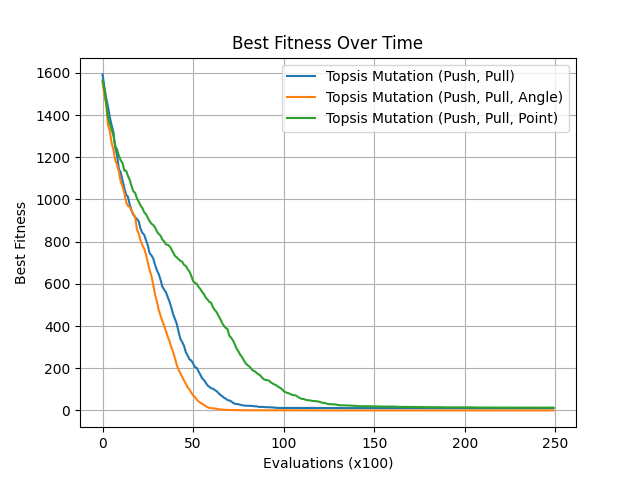
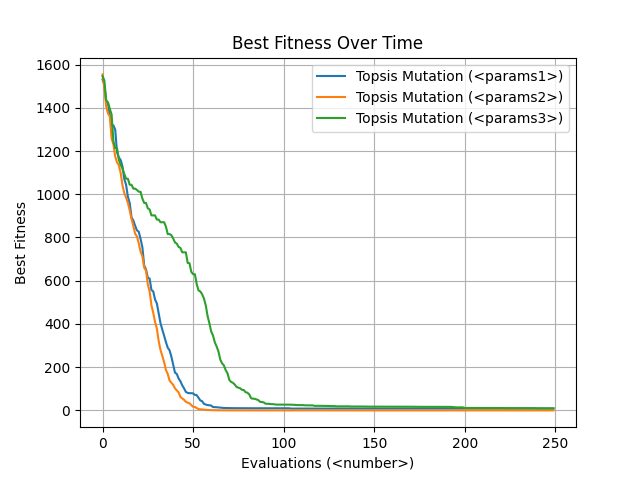
Ackley + Schwefel + code refactor

diff --git a/topsis_mutation/main.py b/topsis_mutation/main.py
@@ -1,10 +1,16 @@
+# Utils
 import numpy as np
 import matplotlib.pyplot as plt
+# JMetalPy
 from jmetal.algorithm.singleobjective import GeneticAlgorithm
 from jmetal.operator import SBXCrossover, PolynomialMutation, BinaryTournamentSelection
-from jmetal.problem.singleobjective.unconstrained import Rastrigin
 from jmetal.util.termination_criterion import StoppingByEvaluations
-from .topsis_mutation import TopsisMutation
+# Mutations
+from topsis_mutation.mutations.topsis_mutation import TopsisMutation
+# Problems
+from jmetal.problem.singleobjective.unconstrained import Rastrigin
+from topsis_mutation.problems.ackley import Ackley
+from topsis_mutation.problems.schwefel import Schwefel
 import json
 
 class CustomGeneticAlgorithm(GeneticAlgorithm):
@@ -70,18 +76,27 @@ if __name__ == "__main__":
     number_of_variables = config["number_of_variables"]
     ga_params = config["genetic_algorithm_params"]
     poly_mutation_params = config["polynomial_mutation_params"]
-    topsis_mutation_params = config["topsis_mutation_params"]
-    exp_1_params = config["exp1_params"]
-    exp_2_params = config["exp2_params"]
+    topsis1_params = config["topsis1_params"]
+    topsis2_params = config["topsis2_params"]
+    topsis3_params = config["topsis3_params"]
 
-    # Initialize the Rastrigin problem
-    problem = Rastrigin(number_of_variables=number_of_variables)
+    # Initialize the problem
+    problemType = config["problem"]
+    match problemType:
+        case "rastrigin":
+            problem = Rastrigin(number_of_variables=number_of_variables)
+        case "ackley":
+            problem = Ackley(number_of_variables=number_of_variables)
+        case "schwefel":
+            problem = Schwefel(number_of_variables=number_of_variables)
+        case _:
+            problem = Rastrigin(number_of_variables=number_of_variables)
 
     # Run the experiments
     poly_history_sum = np.zeros(int(ga_params["max_evaluations"]/100))
-    top_percentage_history_sum = np.zeros(int(ga_params["max_evaluations"]/100))
-    exp_1_history_sum = np.zeros(int(ga_params["max_evaluations"]/100))
-    exp_2_history_sum = np.zeros(int(ga_params["max_evaluations"]/100))
+    topsis1_history_sum = np.zeros(int(ga_params["max_evaluations"]/100))
+    topsis2_history_sum = np.zeros(int(ga_params["max_evaluations"]/100))
+    topsis3_history_sum = np.zeros(int(ga_params["max_evaluations"]/100))
     
     for _ in range(num_tests):
         # PolynomialMutation
@@ -100,110 +115,128 @@ if __name__ == "__main__":
         poly_history = run_experiment(poly_algorithm, ga_params["max_evaluations"])
         poly_history_sum += poly_history
         
-        # TopsisMutation
-        top_percentage_algorithm = CustomGeneticAlgorithm(
+        # TopsisMutation 1
+        topsis1_algorithm = CustomGeneticAlgorithm(
             problem=problem,
             population_size=ga_params["population_size"],
             offspring_population_size=ga_params["offspring_population_size"],
             mutation=TopsisMutation(
-                probability=topsis_mutation_params["probability"],
-                selected_percentage=topsis_mutation_params["top_percentage"],
-                push_strength=topsis_mutation_params["push_strength"],
-                best=topsis_mutation_params["toBest"],
-                worst=topsis_mutation_params["fromWorst"],
-                randomized_angle=topsis_mutation_params["randomizedAngle"],
-                randomized_point=topsis_mutation_params["randomizedPoint"],
+                probability=topsis1_params["probability"],
+                selected_percentage=topsis1_params["top_percentage"],
+                push_strength=topsis1_params["push_strength"],
+                best=topsis1_params["toBest"],
+                worst=topsis1_params["fromWorst"],
+                randomized_angle=topsis1_params["randomizedAngle"],
+                randomized_point=topsis1_params["randomizedPoint"],
                 population=[]
             ),
             crossover=SBXCrossover(probability=0.9, distribution_index=20),
             selection=BinaryTournamentSelection(),
             termination_criterion=StoppingByEvaluations(max_evaluations=ga_params["max_evaluations"])
         )
-        top_percentage_history = run_experiment(top_percentage_algorithm, ga_params["max_evaluations"])
+        topsis1_history = run_experiment(topsis1_algorithm, ga_params["max_evaluations"])
         
         # Set the population for the mutation object
-        top_percentage_algorithm.mutation_operator.set_mutation_population(top_percentage_algorithm.solutions)
+        topsis1_algorithm.mutation_operator.set_mutation_population(topsis1_algorithm.solutions)
+        
+        topsis1_history_sum += topsis1_history
 
-        top_percentage_history_sum += top_percentage_history
 
-
-        # Experiment 1
-        exp_1_algorithm = CustomGeneticAlgorithm(
+        # TopsisMutation 2
+        topsis2_algorithm = CustomGeneticAlgorithm(
             problem=problem,
             population_size=ga_params["population_size"],
             offspring_population_size=ga_params["offspring_population_size"],
             mutation=TopsisMutation(
-                probability=exp_1_params["probability"],
-                selected_percentage=exp_1_params["top_percentage"],
-                push_strength=exp_1_params["push_strength"],
-                best=exp_1_params["toBest"],
-                worst=exp_1_params["fromWorst"],
-                randomized_angle=exp_1_params["randomizedAngle"],
-                randomized_point=exp_1_params["randomizedPoint"],
+                probability=topsis2_params["probability"],
+                selected_percentage=topsis2_params["top_percentage"],
+                push_strength=topsis2_params["push_strength"],
+                best=topsis2_params["toBest"],
+                worst=topsis2_params["fromWorst"],
+                randomized_angle=topsis2_params["randomizedAngle"],
+                randomized_point=topsis2_params["randomizedPoint"],
                 population=[]
             ),
             crossover=SBXCrossover(probability=0.9, distribution_index=20),
             selection=BinaryTournamentSelection(),
             termination_criterion=StoppingByEvaluations(max_evaluations=ga_params["max_evaluations"])
         )
-        exp_1_history = run_experiment(exp_1_algorithm, ga_params["max_evaluations"])
+        topsis2_history = run_experiment(topsis2_algorithm, ga_params["max_evaluations"])
+        
         # Set the population for the mutation object
-        exp_1_algorithm.mutation_operator.set_mutation_population(exp_1_algorithm.solutions)
-        exp_1_history_sum += exp_1_history
+        topsis2_algorithm.mutation_operator.set_mutation_population(topsis2_algorithm.solutions)
+        
+        topsis2_history_sum += topsis2_history
 
 
-        # Experiment 2
-        exp_2_algorithm = CustomGeneticAlgorithm(
+        # TopsisMutation 3
+        topsis3_algorithm = CustomGeneticAlgorithm(
             problem=problem,
             population_size=ga_params["population_size"],
             offspring_population_size=ga_params["offspring_population_size"],
             mutation=TopsisMutation(
-                probability=exp_2_params["probability"],
-                selected_percentage=exp_2_params["top_percentage"],
-                push_strength=exp_2_params["push_strength"],
-                best=exp_2_params["toBest"],
-                worst=exp_2_params["fromWorst"],
-                randomized_angle=exp_2_params["randomizedAngle"],
-                randomized_point=exp_2_params["randomizedPoint"],
+                probability=topsis3_params["probability"],
+                selected_percentage=topsis3_params["top_percentage"],
+                push_strength=topsis3_params["push_strength"],
+                best=topsis3_params["toBest"],
+                worst=topsis3_params["fromWorst"],
+                randomized_angle=topsis3_params["randomizedAngle"],
+                randomized_point=topsis3_params["randomizedPoint"],
                 population=[]
             ),
             crossover=SBXCrossover(probability=0.9, distribution_index=20),
             selection=BinaryTournamentSelection(),
             termination_criterion=StoppingByEvaluations(max_evaluations=ga_params["max_evaluations"])
         )
-        exp_2_history = run_experiment(exp_2_algorithm, ga_params["max_evaluations"])
+        topsis3_history = run_experiment(topsis3_algorithm, ga_params["max_evaluations"])
+        
         # Set the population for the mutation object
-        exp_2_algorithm.mutation_operator.set_mutation_population(exp_2_algorithm.solutions)
-        exp_2_history_sum += exp_2_history
+        topsis3_algorithm.mutation_operator.set_mutation_population(topsis3_algorithm.solutions)
+        
+        topsis3_history_sum += topsis3_history
 
 
     # Calculate average histories
     poly_history_avg = poly_history_sum / num_tests
-    top_percentage_history_avg = top_percentage_history_sum / num_tests
-    exp_1_history_avg = exp_1_history_sum / num_tests
-    exp_2_history_avg = exp_2_history_sum / num_tests
+    topsis1_history_avg = topsis1_history_sum / num_tests
+    topsis2_history_avg = topsis2_history_sum / num_tests
+    topsis3_history_avg = topsis3_history_sum / num_tests
 
-    # Exp 1 to TOPSIS comparison
-    plt.plot(top_percentage_history_avg, label="Topsis Mutation (Push, Pull)")
-    plt.plot(exp_1_history_avg, label="Topsis Mutation (Push, Pull, Angle)")
-    plt.plot(exp_2_history_avg, label="Topsis Mutation (Push, Pull, Point)")
+    # All experiments comparison
+    plt.plot(poly_history_avg, label="Polynomial Mutation")
+    plt.plot(topsis1_history_avg, label="Topsis Mutation (<params1>)")
+    plt.plot(topsis2_history_avg, label="Topsis Mutation (<params2>)")
+    plt.plot(topsis3_history_avg, label="Topsis Mutation (<params3>)")
     plt.title("Best Fitness Over Time")
-    plt.xlabel("Evaluations (x100)")
+    plt.xlabel("Evaluations (<number>)")
     plt.ylabel("Best Fitness")
     plt.legend()
     plt.grid()
-    plt.savefig("plots/topsis_mutation/experiment1_combined_plot.png")
+    plt.savefig("plots/topsis_mutation/all_combined_plot.png")
     plt.show()
 
+    # Three experiments comparison
+    plt.plot(topsis1_history_avg, label="Topsis Mutation (<params1>)")
+    plt.plot(topsis2_history_avg, label="Topsis Mutation (<params2>)")
+    plt.plot(topsis3_history_avg, label="Topsis Mutation (<params3>)")
+    plt.title("Best Fitness Over Time")
+    plt.xlabel("Evaluations (<number>)")
+    plt.ylabel("Best Fitness")
+    plt.legend()
+    plt.grid()
+    plt.savefig("plots/topsis_mutation/three_combined_plot.png")
+    # plt.show()
 
+
+    # Two experiments comparison
     plt.plot(poly_history_avg, label="Polynomial Mutation")
-    plt.plot(top_percentage_history_avg, label="Topsis Mutation")
+    plt.plot(topsis1_history_avg, label="Topsis Mutation")
     plt.title("Best Fitness Over Time")
     plt.xlabel("Evaluations (x100)")
     plt.ylabel("Best Fitness")
     plt.legend()
     plt.grid()
-    plt.savefig("plots/topsis_mutation/combined_plot.png")
+    plt.savefig("plots/topsis_mutation/two_combined_plot.png")
     # plt.show()
 
     plt.plot(poly_history_avg)
@@ -214,13 +247,10 @@ if __name__ == "__main__":
     plt.savefig("plots/topsis_mutation/polynomial_mutation_plot.png")
     # plt.show()
 
-    plt.plot(top_percentage_history_avg)
+    plt.plot(topsis1_history_avg)
     plt.title("Topsis Mutation - Best Fitness Over Time")
     plt.xlabel("Evaluations (x100)")
     plt.ylabel("Best Fitness")
     plt.grid()
     plt.savefig("plots/topsis_mutation/top_percentage_averaging_mutation_plot.png")
     # plt.show()
-
-
-# Tests and comparisons: 

diff --git a/topsis_mutation/problems/ackley.py b/topsis_mutation/problems/ackley.py
@@ -1,0 +1,34 @@
+import math
+from jmetal.core.problem import FloatProblem
+from jmetal.core.solution import FloatSolution
+
+class Ackley(FloatProblem):
+    def __init__(self, number_of_variables: int = 2):
+        super(Ackley, self).__init__()
+        self.number_of_variables = number_of_variables
+        self.number_of_objectives = 1
+        self.number_of_constraints = 0
+
+        self.obj_directions = [self.MINIMIZE]
+        self.obj_labels = ['f(x)']
+
+        self.lower_bound = [-32.768] * number_of_variables
+        self.upper_bound = [32.768] * number_of_variables
+
+    def evaluate(self, solution: FloatSolution) -> FloatSolution:
+        x = solution.variables
+
+        a = 20
+        b = 0.2
+        c = 2 * math.pi
+
+        sum1 = sum([xi**2 for xi in x]) / self.number_of_variables
+        sum2 = sum([math.cos(c * xi) for xi in x]) / self.number_of_variables
+        result = -a * math.exp(-b * math.sqrt(sum1)) - math.exp(sum2) + a + math.e
+
+        solution.objectives[0] = result
+
+        return solution
+
+    def get_name(self) -> str:
+        return 'Ackley'

diff --git a/topsis_mutation/problems/schwefel.py b/topsis_mutation/problems/schwefel.py
@@ -1,0 +1,31 @@
+import math
+from jmetal.core.problem import FloatProblem
+from jmetal.core.solution import FloatSolution
+
+class Schwefel(FloatProblem):
+    def __init__(self, number_of_variables: int = 2):
+        super(Schwefel, self).__init__()
+        self.number_of_variables = number_of_variables
+        self.number_of_objectives = 1
+        self.number_of_constraints = 0
+
+        self.obj_directions = [self.MINIMIZE]
+        self.obj_labels = ['f(x)']
+
+        self.lower_bound = [-500.0] * number_of_variables
+        self.upper_bound = [500.0] * number_of_variables
+
+    def evaluate(self, solution: FloatSolution) -> FloatSolution:
+        x = solution.variables
+        result = 0
+
+        for xi in x:
+            result += xi * math.sin(math.sqrt(abs(xi)))
+
+        result = 418.9829 * self.number_of_variables - result
+        solution.objectives[0] = result
+
+        return solution
+
+    def get_name(self) -> str:
+        return 'Schwefel'

diff --git a/topsis_mutation/mutations/topsis_mutation.py b/topsis_mutation/mutations/topsis_mutation.py
@@ -128,4 +128,4 @@ class TopsisMutation(PolynomialMutation):
         self.population = population
 
     def get_name(self):
-        return 'Top Percentage Averaging Mutation'
+        return 'Topsis Mutation'
